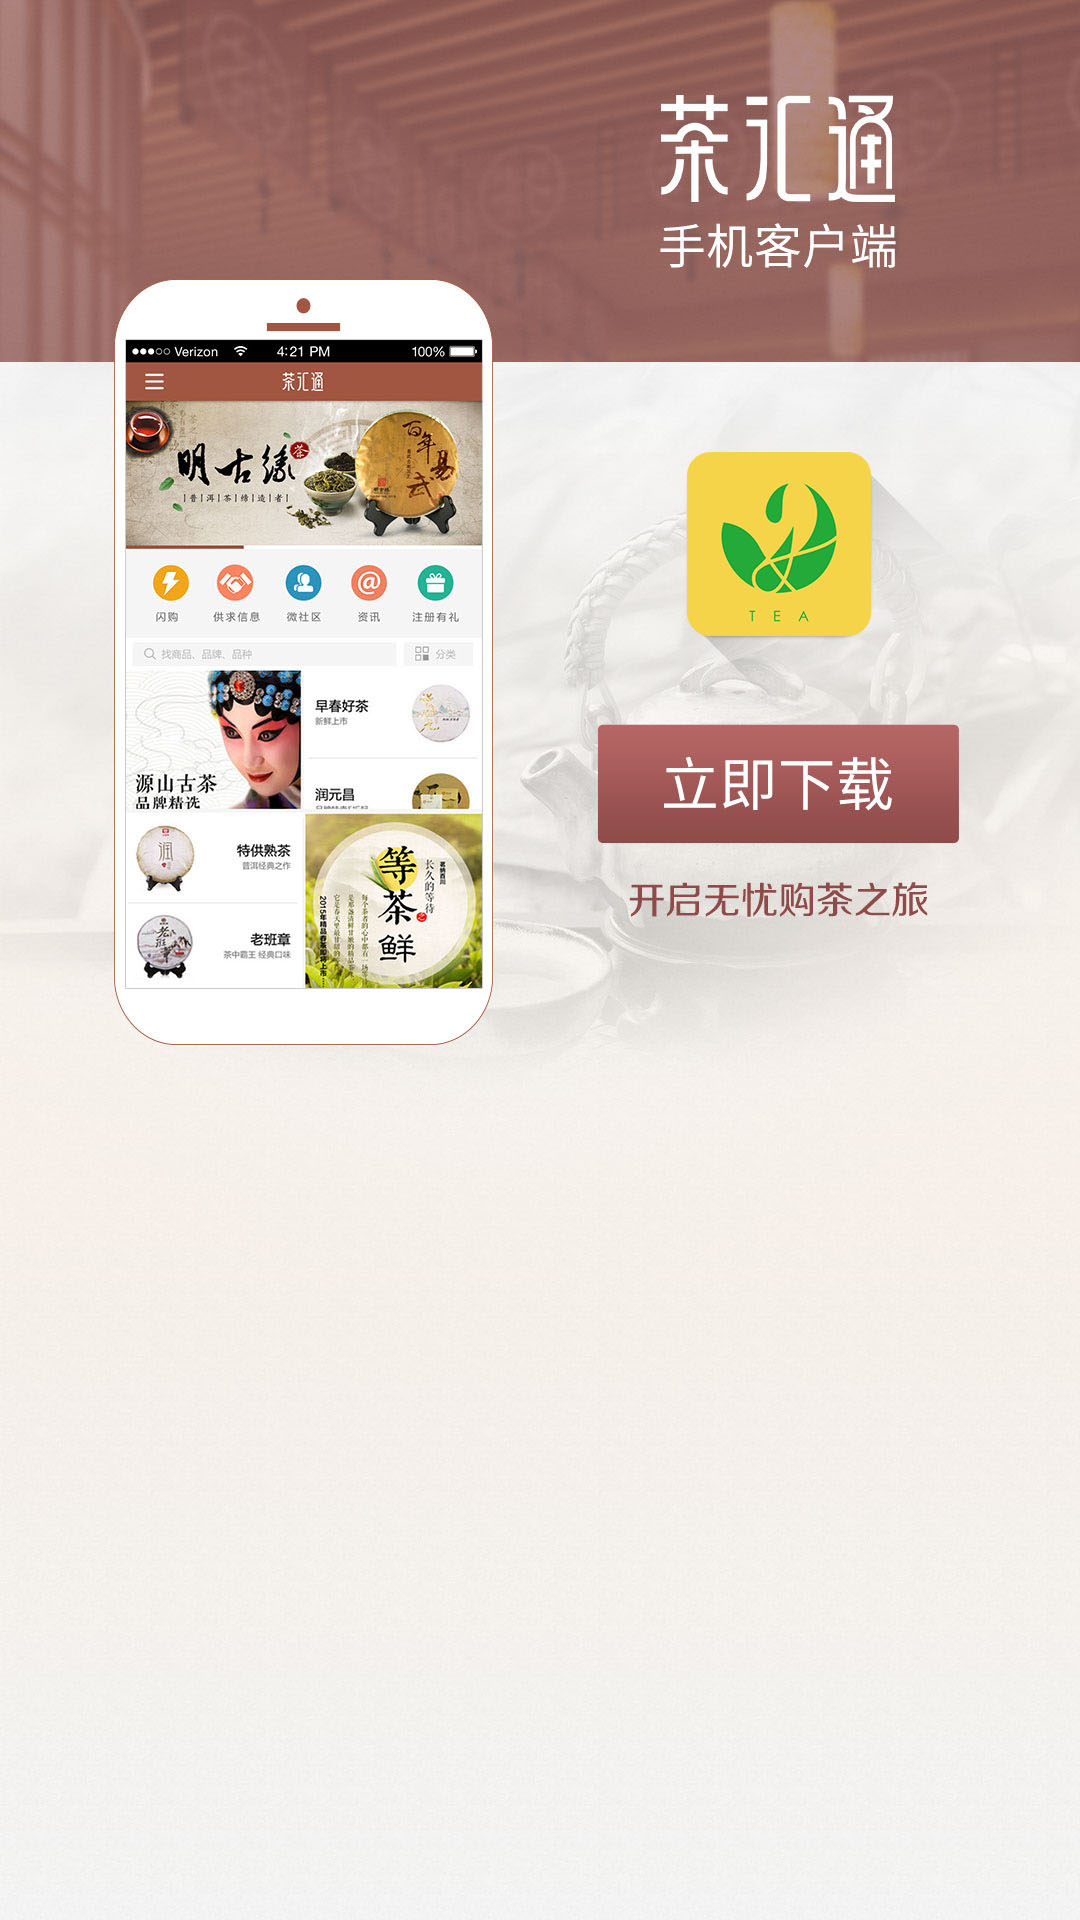
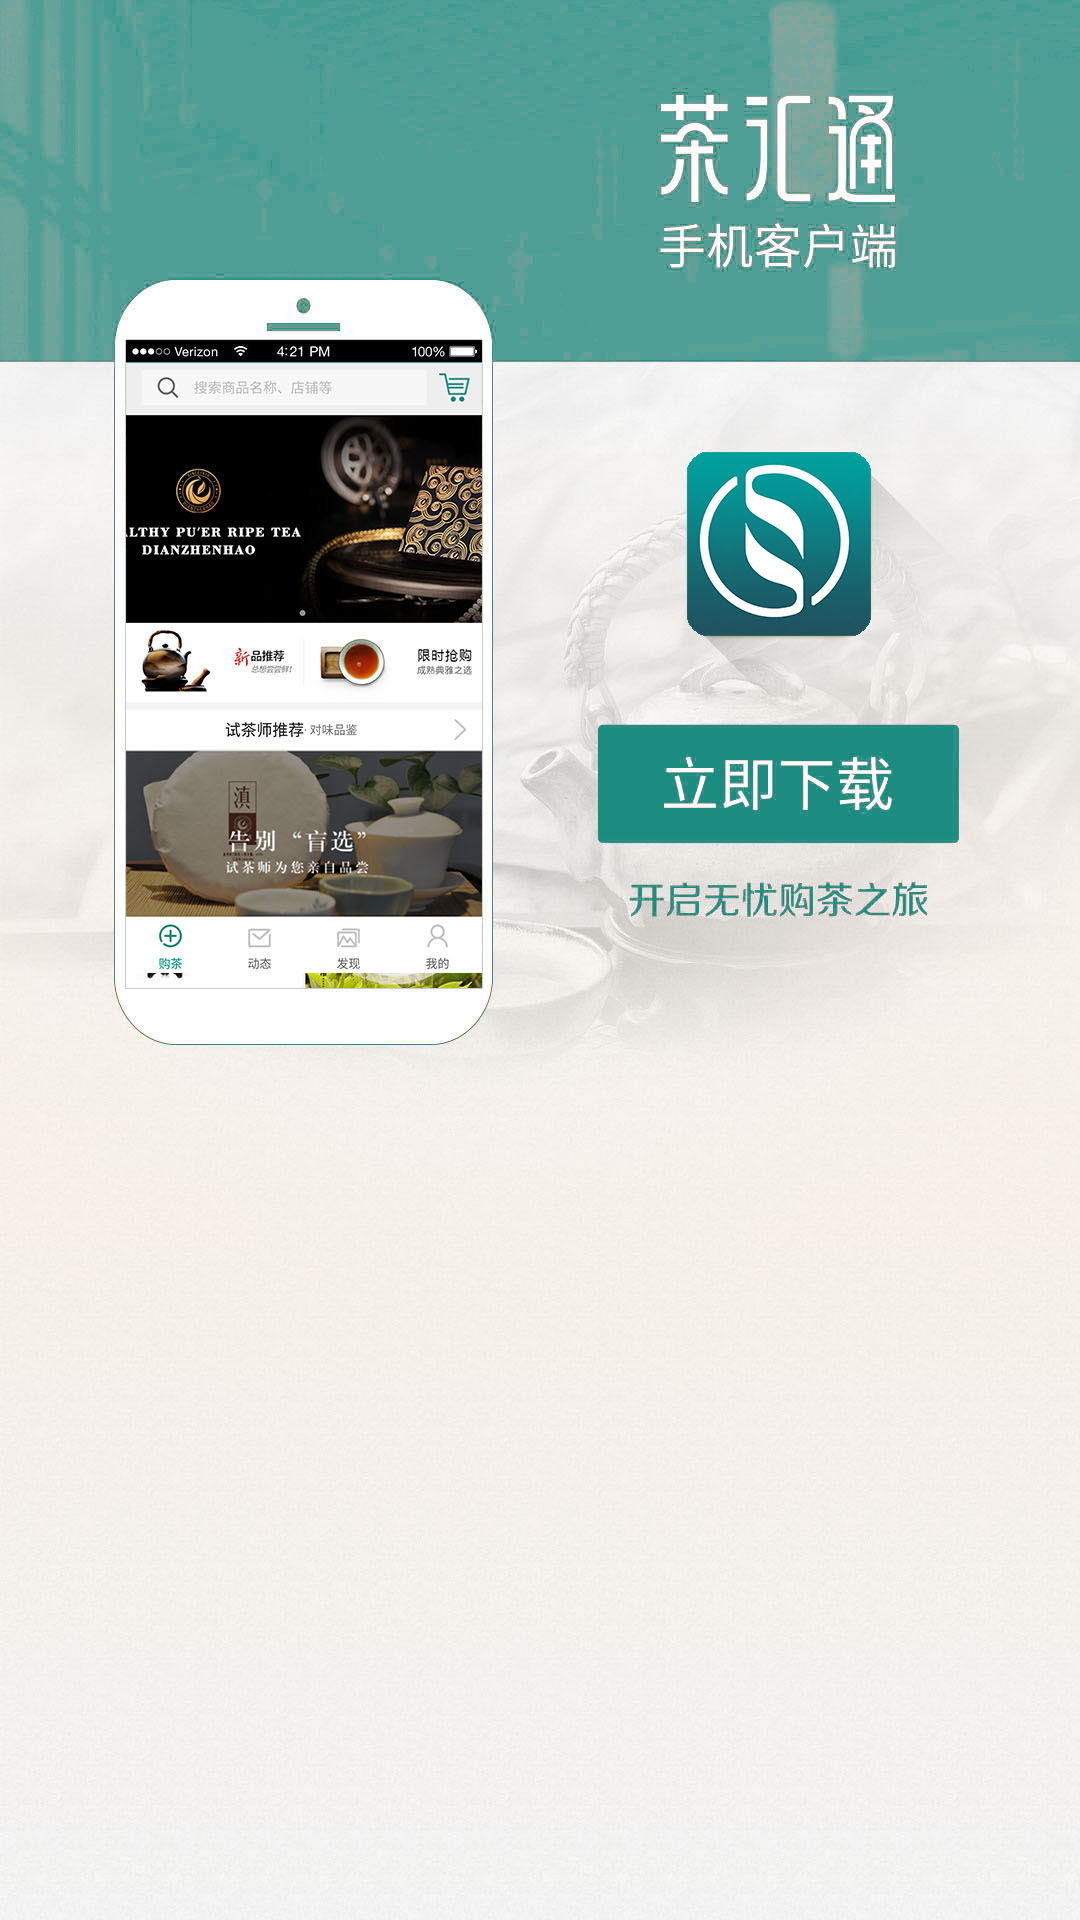
修改下载页面

Changed region(s): [[0.0, 0.0, 1.0, 0.5312], [0.55, 0.375, 0.8861, 0.5], [0.6111, 0.2188, 0.825, 0.3438]]

diff --git a/chahuitong.com/www/download/index.php b/chahuitong.com/www/download/index.php
@@ -1,0 +1,62 @@
+<!DOCTYPE html>
+<html>
+<head>
+    <title>茶汇通APP下载</title>
+    <meta charset="utf-8"/>
+    <meta name="viewport" content="width=device-width;initial-scale=1.0"/>
+    <style>
+        body {
+            margin: 0;
+            padding: 0;
+        }
+        img {
+            width: 100%;
+        }
+        .tip {
+            top:0;
+            display:none;
+            position:fixed;
+            background-color: black;
+            height:100%;
+            filter:alpha(opacity=70);
+            -moz-opacity:0.7;
+            opacity:0.7;
+        }
+    </style>
+
+    <?php
+        $agent = strtolower($_SERVER['HTTP_USER_AGENT']);
+        $iphone = (strpos($agent, 'iphone')) ? true : false;
+        $ipad = (strpos($agent, 'ipad')) ? true : false;
+        $android = (strpos($agent, 'android')) ? true : false;
+    ?>
+
+    <script type="text/javascript">
+        function show(){
+            document.getElementById('tip').style.display="block";
+            window.location="<?php echo $iphone || $ipad ? 'https://itunes.apple.com/cn/app/cha-hui-tong/id1024062041?mt=8' : 'cht.apk' ?>";
+	    }
+    </script>
+
+</head>
+<body>
+    <div  onclick="show()"><a href="javascript:void(0)"><img src="download.jpg" /></a></div>
+    <div id="tip" class="tip"><img src="weixin-tip.jpg"></div>
+
+    <div style="display:none">
+        <script type="text/javascript">
+            var cnzz_protocol = (("https:" == document.location.protocol) ? " https://" : " http://");
+            document.write(unescape("%3Cspan id='cnzz_stat_icon_1255435809'%3E%3C/span%3E%3Cscript src='" + cnzz_protocol + "s11.cnzz.com/z_stat.php%3Fid%3D1255435809' type='text/javascript'%3E%3C/script%3E"));
+        </script>
+    </div>
+    <script>
+        var _hmt = _hmt || [];
+        (function() {
+          var hm = document.createElement("script");
+          hm.src = "//hm.baidu.com/hm.js?9a15ea23e7316c631085bb3ef722599a";
+          var s = document.getElementsByTagName("script")[0];
+          s.parentNode.insertBefore(hm, s);
+        })();
+    </script>
+</body>
+</html>

diff --git a/chahuitong.com/api/templates/default/article_detail.php b/chahuitong.com/api/templates/default/article_detail.php
@@ -60,7 +60,7 @@
                 ); ?></span>
         </div>
 
-<!--        <div class="follow"><a>+关注</a></div>-->
+        <div class="follow"><a>+关注</a></div>
     </div>
 
     <hr>
